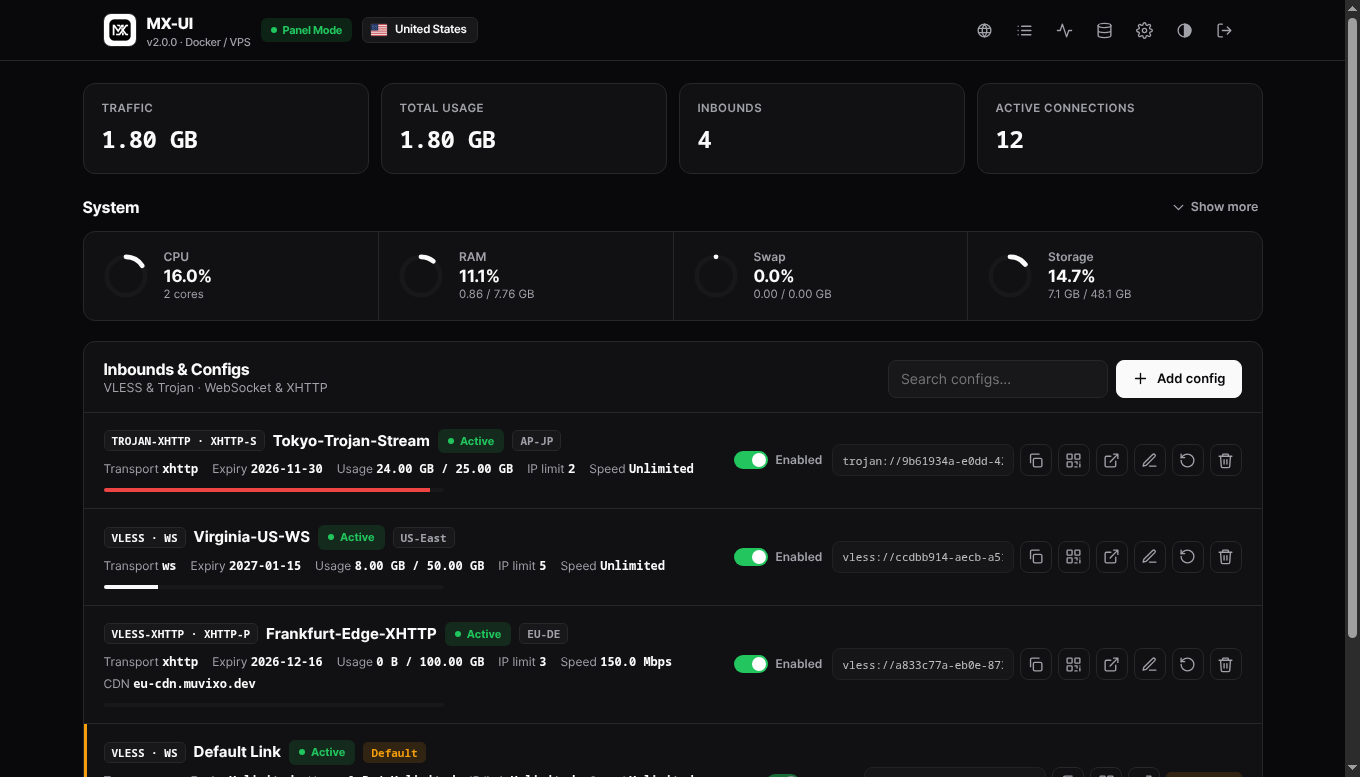
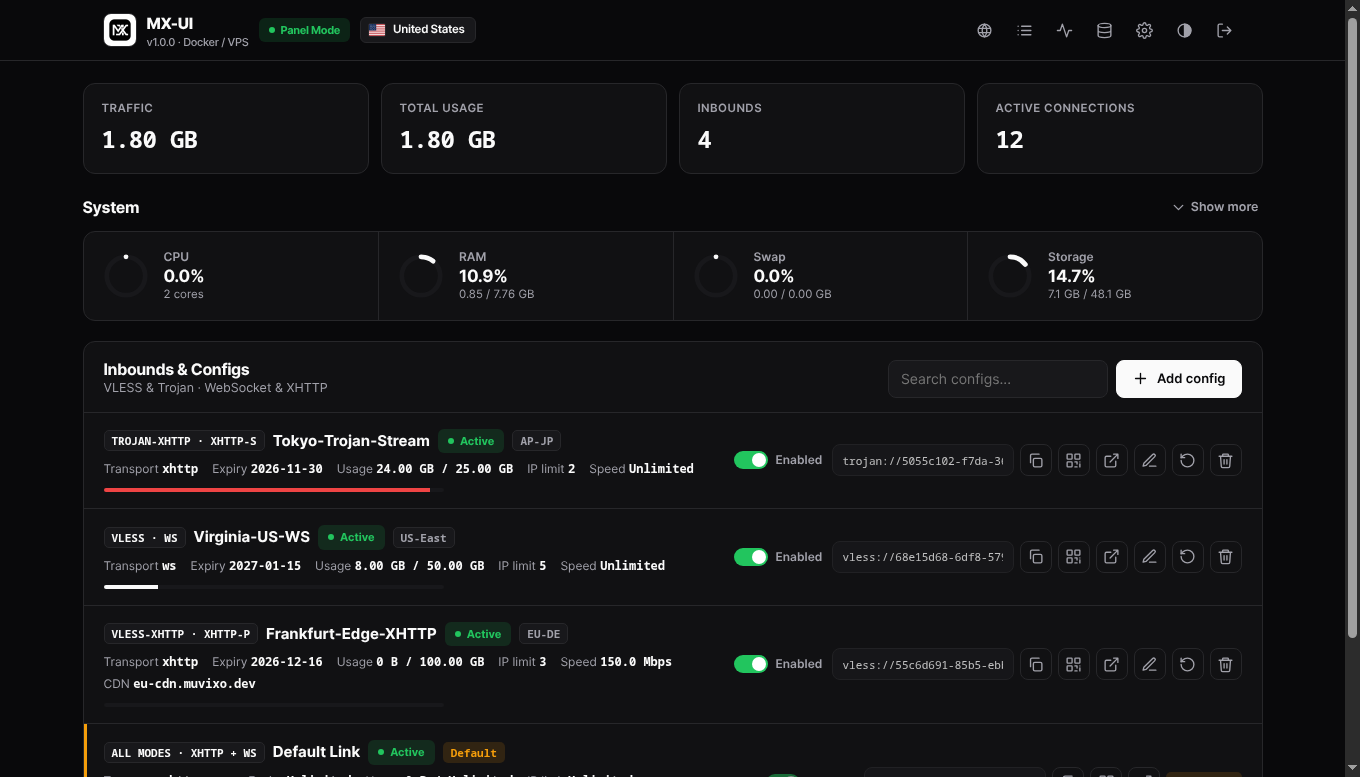
e

diff --git a/templates/dashboard.html b/templates/dashboard.html
@@ -1,5 +1,5 @@
 {% extends "base.html" %}
-{% block title %}MX-UI v2.0.0 · Control Plane{% endblock %}
+{% block title %}MX-UI v1.0.0 · Control Plane{% endblock %}
 {% block content %}
 <svg width="0" height="0" style="position:absolute" aria-hidden="true"><defs>
   <symbol id="plus" viewBox="0 0 24 24"><path d="M12 5v14M5 12h14"/></symbol>
@@ -31,7 +31,7 @@
   <div class="wrap">
     <div class="brand">
       <span class="brand-icon"><img src="/static/img/mxui-icon.png" alt="MX-UI"></span>
-      <div>MX-UI<small>v2.0.0 · {{ platform_name }}</small></div>
+      <div>MX-UI<small>v1.0.0 · {{ platform_name }}</small></div>
       <span class="pill ok hide-m"><i></i><span id="xray-status-pill">Online</span></span>
       <span class="loc-badge hide-m"><img id="panel-flag-img" class="flag-icon" src="{{ panel_location.flag_url or '/static/flags/us.svg' }}" alt="{{ panel_location.country_code or 'us' }}"><span id="panel-location-text">{{ panel_location.country_name or 'United States' }}</span></span>
     </div>
@@ -93,7 +93,7 @@
     </div>
     <div id="config-list" style="border-top:1px solid var(--line)"></div>
     <div class="dfoot">
-      <span>MX-UI v2.0.0 · Created by Muvixo</span>
+      <span>MX-UI v1.0.0 · Created by Muvixo</span>
       <span>Uptime <b id="uptime-display" class="mono">00:00:00</b> · Platform <b style="color:var(--acc)">{{ platform_name }}</b></span>
     </div>
   </section>

diff --git a/templates/setup.html b/templates/setup.html
@@ -5,7 +5,7 @@
   <aside class="side">
     <div style="display:flex;align-items:center;gap:12px">
       <span class="brand-icon"><img src="/static/img/mxui-icon.png" alt="MX-UI"></span>
-      <div><b style="font-size:17px">MX-UI</b><small style="display:block;opacity:.6">v2.0.0</small></div>
+      <div><b style="font-size:17px">MX-UI</b><small style="display:block;opacity:.6">v1.0.0</small></div>
     </div>
     <div>
       <h2>Multi-protocol nodes, unified.</h2>
@@ -31,7 +31,7 @@
       <button type="submit" id="setupButton" class="btn primary block">Save and continue</button>
       <div id="setupErrorMsg" class="alert hidden" role="alert"></div>
       <div id="setupSuccessMsg" class="ok-msg hidden" role="status"></div>
-      <p class="foot">MX-UI v2.0.0 · Created by Muvixo</p>
+      <p class="foot">MX-UI v1.0.0 · Created by Muvixo</p>
     </form>
   </main>
 </div>

diff --git a/templates/login.html b/templates/login.html
@@ -5,7 +5,7 @@
   <aside class="side">
     <div style="display:flex;align-items:center;gap:12px">
       <span class="brand-icon"><img src="/static/img/mxui-icon.png" alt="MX-UI"></span>
-      <div><b style="font-size:17px">MX-UI</b><small style="display:block;opacity:.6">v2.0.0</small></div>
+      <div><b style="font-size:17px">MX-UI</b><small style="display:block;opacity:.6">v1.0.0</small></div>
     </div>
     <div>
       <h2>Multi-protocol nodes, unified.</h2>
@@ -30,7 +30,7 @@
       </label>
       <button type="submit" id="loginButton" class="btn primary block">Sign in</button>
       <div id="errorMsg" class="alert hidden" role="alert"></div>
-      <p class="foot">MX-UI v2.0.0 · Created by Muvixo</p>
+      <p class="foot">MX-UI v1.0.0 · Created by Muvixo</p>
     </form>
   </main>
 </div>

diff --git a/templates/sub_info.html b/templates/sub_info.html
@@ -21,7 +21,7 @@
       <div style="display:flex;gap:8px"><input id="u2" readonly class="input mono" value="{{ sub_url }}" style="font-size:12px"><button class="btn" onclick="cp('u2',this)">Copy</button></div>
     </div>
     <a href="{{ portal_url }}" class="btn primary block" style="text-decoration:none">Open Full Portal &amp; QR</a>
-    <p class="foot">MX-UI v2.0.0 · Created by Muvixo</p>
+    <p class="foot">MX-UI v1.0.0 · Created by Muvixo</p>
   </div>
 </div>
 {% endblock %}

diff --git a/templates/sub_user.html b/templates/sub_user.html
@@ -56,7 +56,7 @@
       </div>
     </div>
 
-    <p class="foot">MX-UI v2.0.0 · Created by Muvixo</p>
+    <p class="foot">MX-UI v1.0.0 · Created by Muvixo</p>
   </div>
 </div>
 {% endblock %}

diff --git a/app/xray_manager.py b/app/xray_manager.py
@@ -97,22 +97,32 @@ def _detect_version() -> None:
 
 
 def _build_config() -> dict:
-    vless_clients = []
-    trojan_clients = []
+    vless_ws_clients = []
+    vless_xhttp_clients = []
+    trojan_ws_clients = []
+    trojan_xhttp_clients = []
 
     for uid, link in list(LINKS.items()):
         if not is_link_allowed(link):
             continue
         proto = link.get("protocol", "vless-ws")
         if link.get("is_default") or proto == "all":
-            vless_clients.append({"id": uid, "email": uid, "level": 0})
-            trojan_clients.append({"password": uid, "email": uid, "level": 0})
+            vless_ws_clients.append({"id": uid, "email": f"{uid}@vless-ws", "level": 0})
+            vless_xhttp_clients.append({"id": uid, "email": f"{uid}@vless-xhttp", "level": 0})
+            trojan_ws_clients.append({"password": uid, "email": f"{uid}@trojan-ws", "level": 0})
+            trojan_xhttp_clients.append({"password": uid, "email": f"{uid}@trojan-xhttp", "level": 0})
         else:
-            family, _, _ = parse_protocol(proto)
+            family, transport, _ = parse_protocol(proto)
             if family == "trojan":
-                trojan_clients.append({"password": uid, "email": uid, "level": 0})
+                if transport == "xhttp":
+                    trojan_xhttp_clients.append({"password": uid, "email": f"{uid}@trojan-xhttp", "level": 0})
+                else:
+                    trojan_ws_clients.append({"password": uid, "email": f"{uid}@trojan-ws", "level": 0})
             else:
-                vless_clients.append({"id": uid, "email": uid, "level": 0})
+                if transport == "xhttp":
+                    vless_xhttp_clients.append({"id": uid, "email": f"{uid}@vless-xhttp", "level": 0})
+                else:
+                    vless_ws_clients.append({"id": uid, "email": f"{uid}@vless-ws", "level": 0})
 
     xhttp_key = "splithttpSettings" if XHTTP_TRANSPORT == "splithttp" else "xhttpSettings"
 
@@ -122,7 +132,7 @@ def _build_config() -> dict:
             "listen": "127.0.0.1",
             "port": WS_PORT,
             "protocol": "vless",
-            "settings": {"clients": vless_clients, "decryption": "none"},
+            "settings": {"clients": vless_ws_clients, "decryption": "none"},
             "streamSettings": {"network": "ws", "wsSettings": {"path": "/ws"}},
             "sniffing": {"enabled": True, "destOverride": ["http", "tls", "quic"]},
         },
@@ -131,7 +141,7 @@ def _build_config() -> dict:
             "listen": "127.0.0.1",
             "port": XHTTP_PORT,
             "protocol": "vless",
-            "settings": {"clients": vless_clients, "decryption": "none"},
+            "settings": {"clients": vless_xhttp_clients, "decryption": "none"},
             "streamSettings": {"network": XHTTP_TRANSPORT, xhttp_key: {"path": "/xhttp"}},
             "sniffing": {"enabled": True, "destOverride": ["http", "tls", "quic"]},
         },
@@ -140,7 +150,7 @@ def _build_config() -> dict:
             "listen": "127.0.0.1",
             "port": TROJAN_WS_PORT,
             "protocol": "trojan",
-            "settings": {"clients": trojan_clients},
+            "settings": {"clients": trojan_ws_clients},
             "streamSettings": {"network": "ws", "wsSettings": {"path": "/ws-trojan"}},
             "sniffing": {"enabled": True, "destOverride": ["http", "tls", "quic"]},
         },
@@ -149,7 +159,7 @@ def _build_config() -> dict:
             "listen": "127.0.0.1",
             "port": TROJAN_XHTTP_PORT,
             "protocol": "trojan",
-            "settings": {"clients": trojan_clients},
+            "settings": {"clients": trojan_xhttp_clients},
             "streamSettings": {"network": XHTTP_TRANSPORT, xhttp_key: {"path": "/xhttp-trojan"}},
             "sniffing": {"enabled": True, "destOverride": ["http", "tls", "quic"]},
         },
@@ -387,8 +397,9 @@ async def query_stats(reset: bool = True) -> dict:
             continue
         seg = key.split(">>>")
         if len(seg) == 4 and seg[0] == "user" and seg[2] == "traffic":
-            uid, direction = seg[1], seg[3]
-            parsed.setdefault(uid, {})[direction] = val
+            uid = seg[1].split("@", 1)[0]
+            direction = seg[3]
+            parsed.setdefault(uid, {})[direction] = parsed.get(uid, {}).get(direction, 0) + val
     return parsed
 
 

diff --git a/main.py b/main.py
@@ -1,4 +1,4 @@
-"""MX-UI v2.0.0 — Multi-Platform VLESS/Trojan (WS & XHTTP) Control Plane."""
+"""MX-UI v1.0.0 — Multi-Platform VLESS/Trojan (WS & XHTTP) Control Plane."""
 from __future__ import annotations
 
 import asyncio
@@ -88,7 +88,7 @@ async def lifespan(_app: FastAPI):
         await close_proxy_client()
 
 
-app = FastAPI(title="MX-UI", version="2.0.1", docs_url=None, redoc_url=None)
+app = FastAPI(title="MX-UI", version="1.0.0", docs_url=None, redoc_url=None)
 
 _bg_tasks = []
 

diff --git a/app/routes/api_system.py b/app/routes/api_system.py
@@ -185,7 +185,7 @@ async def update_settings(request: Request, _=Depends(require_auth)):
 @router.get("/api/database/export")
 async def export_db(_=Depends(require_auth)):
     async with LINKS_LOCK:
-        return {"links": dict(LINKS), "exported_at": datetime.now().isoformat(), "version": "2.0.0"}
+        return {"links": dict(LINKS), "exported_at": datetime.now().isoformat(), "version": "1.0.0"}
 
 
 @router.post("/api/database/import")

diff --git a/README.md b/README.md
@@ -2,7 +2,7 @@
   <img src="static/img/mxui-icon.png" alt="MX-UI Icon" width="110" />
 </p>
 
-<h1 align="center">MX-UI v2.0.0</h1>
+<h1 align="center">MX-UI v1.0.0</h1>
 
 <p align="center">
   Multi-platform VLESS &amp; Trojan (WebSocket &amp; XHTTP) control plane powered by Xray Core.<br/>
